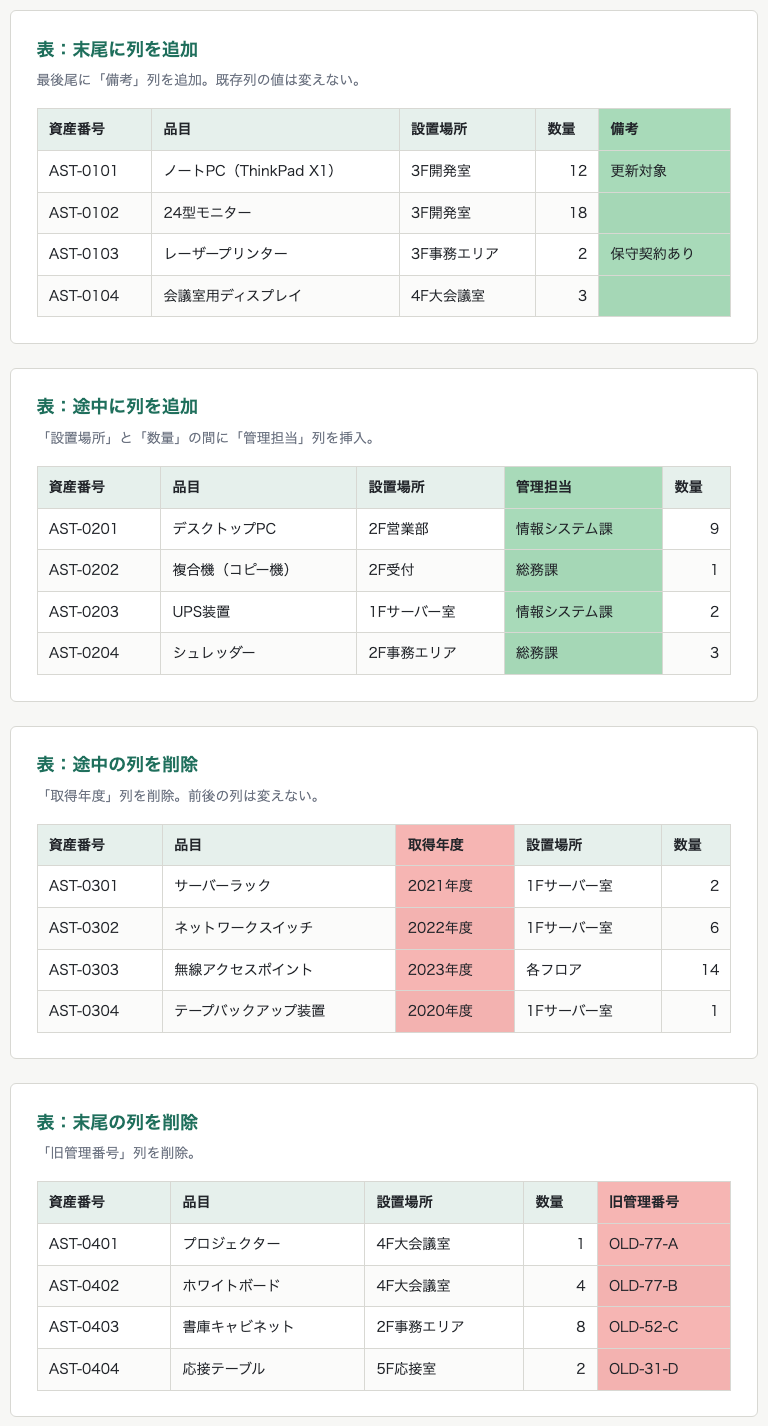
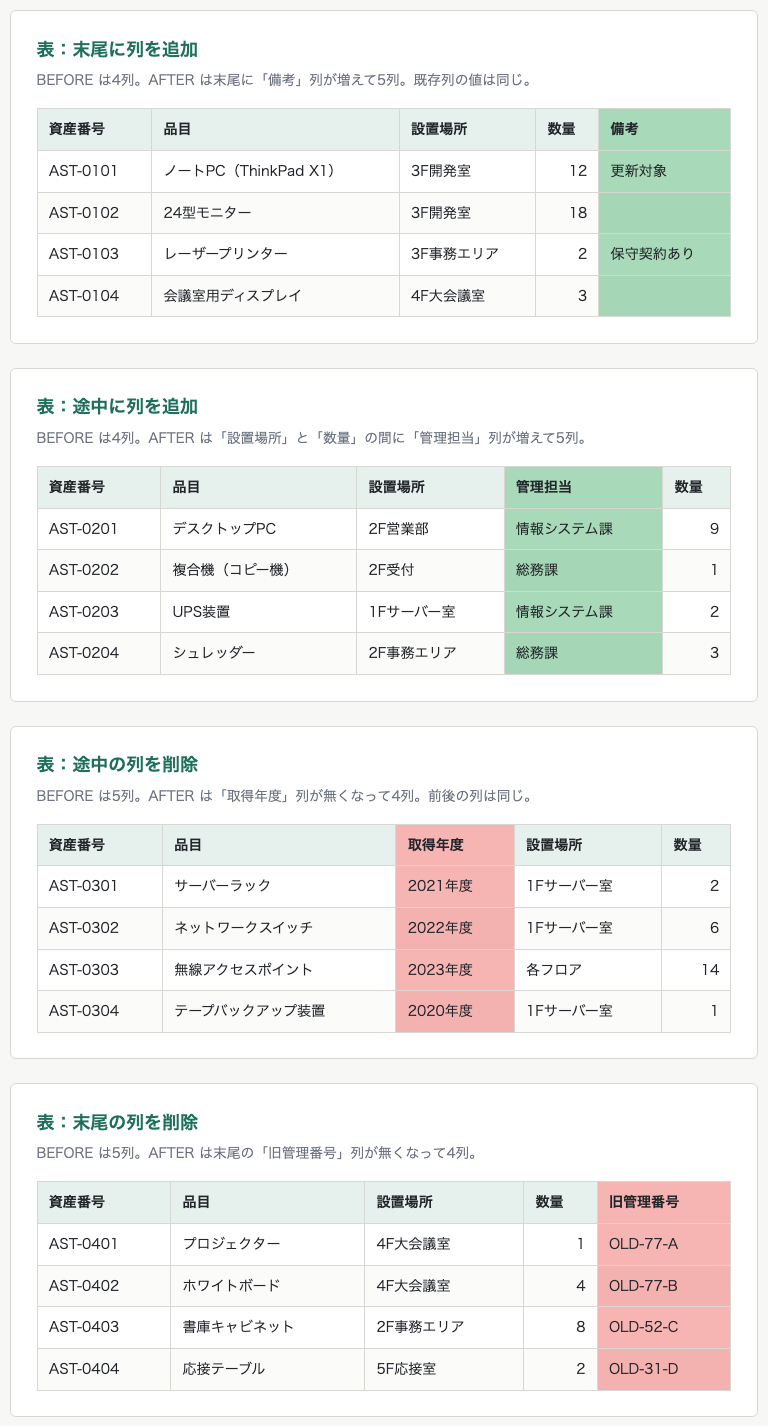
edit: state each case in terms of file contents, not an action
Section leads said things like "最後尾に「備考」列を追加". That reads as a
claim about what the render will show, so when the two files are loaded
into the wrong panes the wording and the colours contradict each other and
the wording looks like the bug.

They now say what each file contains - "BEFORE は4列。AFTER は末尾に「備考」
列が増えて5列。" - which stays true whichever pane holds which file, and
tells you which pane holds which the moment the colours disagree with it.

diff --git a/diff-testcases/all-cases-before.html b/diff-testcases/all-cases-before.html
@@ -97,7 +97,7 @@ footer{padding:1.2rem 2.5rem;color:var(--muted);font-size:.82rem}
       </section>
       <section id="sec-col-add-tail">
         <h2>表：末尾に列を追加</h2>
-        <p class="lead">最後尾に「備考」列を追加。既存列の値は変えない。</p>
+        <p class="lead">BEFORE は4列。AFTER は末尾に「備考」列が増えて5列。既存列の値は同じ。</p>
         <table id="t-col-add-tail">
         <thead><tr><th>資産番号</th><th>品目</th><th>設置場所</th><th>数量</th></tr></thead>
         <tbody>
@@ -110,7 +110,7 @@ footer{padding:1.2rem 2.5rem;color:var(--muted);font-size:.82rem}
       </section>
       <section id="sec-col-add-mid">
         <h2>表：途中に列を追加</h2>
-        <p class="lead">「設置場所」と「数量」の間に「管理担当」列を挿入。</p>
+        <p class="lead">BEFORE は4列。AFTER は「設置場所」と「数量」の間に「管理担当」列が増えて5列。</p>
         <table id="t-col-add-mid">
         <thead><tr><th>資産番号</th><th>品目</th><th>設置場所</th><th>数量</th></tr></thead>
         <tbody>
@@ -123,7 +123,7 @@ footer{padding:1.2rem 2.5rem;color:var(--muted);font-size:.82rem}
       </section>
       <section id="sec-col-del-mid">
         <h2>表：途中の列を削除</h2>
-        <p class="lead">「取得年度」列を削除。前後の列は変えない。</p>
+        <p class="lead">BEFORE は5列。AFTER は「取得年度」列が無くなって4列。前後の列は同じ。</p>
         <table id="t-col-del-mid">
         <thead><tr><th>資産番号</th><th>品目</th><th>取得年度</th><th>設置場所</th><th>数量</th></tr></thead>
         <tbody>
@@ -136,7 +136,7 @@ footer{padding:1.2rem 2.5rem;color:var(--muted);font-size:.82rem}
       </section>
       <section id="sec-col-del-tail">
         <h2>表：末尾の列を削除</h2>
-        <p class="lead">「旧管理番号」列を削除。</p>
+        <p class="lead">BEFORE は5列。AFTER は末尾の「旧管理番号」列が無くなって4列。</p>
         <table id="t-col-del-tail">
         <thead><tr><th>資産番号</th><th>品目</th><th>設置場所</th><th>数量</th><th>旧管理番号</th></tr></thead>
         <tbody>
@@ -149,7 +149,7 @@ footer{padding:1.2rem 2.5rem;color:var(--muted);font-size:.82rem}
       </section>
       <section id="sec-row-churn">
         <h2>表：行の増減と値の変更</h2>
-        <p class="lead">行を1本削除、1本追加し、金額を複数箇所変更。</p>
+        <p class="lead">BEFORE にだけ Classic 行、AFTER にだけ Pro Plus 行。金額も6箇所違う。</p>
         <table id="t-row-churn">
         <thead><tr><th>プラン</th><th>月額</th><th>年額</th><th>上限ユーザー</th><th>サポート</th></tr></thead>
         <tbody>
@@ -162,7 +162,7 @@ footer{padding:1.2rem 2.5rem;color:var(--muted);font-size:.82rem}
       </section>
       <section id="sec-lookalike">
         <h2>表：似た行が並ぶ中での1行削除</h2>
-        <p class="lead">同じ形の行が5本並ぶ中から1本を削除し、別の行のセルを1つ変更。</p>
+        <p class="lead">BEFORE は8行、AFTER は sato.k のログイン行が無くて7行。tanaka.r の設定変更行の結果も違う。</p>
         <table id="t-lookalike">
         <thead><tr><th>ログID</th><th>時刻</th><th>利用者</th><th>操作</th><th>対象</th><th>結果</th></tr></thead>
         <tbody>
@@ -179,7 +179,7 @@ footer{padding:1.2rem 2.5rem;color:var(--muted);font-size:.82rem}
       </section>
       <section id="sec-cards">
         <h2>カード：追加・削除・並べ替え</h2>
-        <p class="lead">同じclassのカードを1枚削除、1枚追加、2枚入れ替え、1枚の本文を微修正。</p>
+        <p class="lead">BEFORE にだけ「通知基盤の移行」、AFTER にだけ「データ基盤のPoC」。「決済APIの連携」は位置も本文も違う。</p>
         <div class="grid">
         <div class="card">
           <div class="head"><h4>認証基盤の刷新</h4><span class="badge ok">順調</span></div>
@@ -205,7 +205,7 @@ footer{padding:1.2rem 2.5rem;color:var(--muted);font-size:.82rem}
       </section>
       <section id="sec-card-attr">
         <h2>カード：classだけの変更</h2>
-        <p class="lead">テキストは完全に同一で、classだけが card から card done に変わる。</p>
+        <p class="lead">テキストは完全に同一。class が BEFORE は card、AFTER は card done。</p>
         <div class="grid">
         <div class="card">
           <div class="head"><h4>棚卸データの移行</h4><span class="badge ok">順調</span></div>
@@ -216,7 +216,7 @@ footer{padding:1.2rem 2.5rem;color:var(--muted);font-size:.82rem}
       </section>
       <section id="sec-list-nest">
         <h2>入れ子リストの組み替え</h2>
-        <p class="lead">階層の昇格・降格、ul→ol、並べ替え、項目の削除。</p>
+        <p class="lead">BEFORE と AFTER で階層・並び順・ul/ol が違う。BEFORE にだけ「社内レビュー」。</p>
         <ul class="tree">
           <li>要件定義
             <ul>
@@ -255,7 +255,7 @@ footer{padding:1.2rem 2.5rem;color:var(--muted);font-size:.82rem}
       </section>
       <section id="sec-steps">
         <h2>手順の並べ替えと本文書き換え</h2>
-        <p class="lead">2番目のステップを4番目へ移動し、1ステップの説明を書き換える。</p>
+        <p class="lead">「障害対応チームの招集」が BEFORE では2番目、AFTER では4番目。「暫定対処の実施」の説明文も違う。</p>
         <ol class="steps">
           <li>
             <h3>監視アラートの確認</h3>
@@ -285,7 +285,7 @@ footer{padding:1.2rem 2.5rem;color:var(--muted);font-size:.82rem}
       </section>
       <section id="sec-glossary">
         <h2>用語集：用語の増減と定義の書き換え</h2>
-        <p class="lead">dt/dd を1組追加、1組削除し、既存の定義を1つ書き換える。</p>
+        <p class="lead">AFTER にだけ SLO、BEFORE にだけ オンコール。エスカレーションの定義文も違う。</p>
         <dl class="glossary">
           <dt>SLA（サービスレベル合意）</dt>
           <dd>提供者と利用者の間で合意した、可用性や応答時間の水準を定めた契約上の指標。</dd>
@@ -303,7 +303,7 @@ footer{padding:1.2rem 2.5rem;color:var(--muted);font-size:.82rem}
       </section>
       <section id="sec-prose">
         <h2>長文：ごく小さな修正のみ</h2>
-        <p class="lead">6段落のうち3箇所だけを修正。過剰にマークしないことの確認。</p>
+        <p class="lead">6段落のうち BEFORE と AFTER で違うのは3箇所だけ。過剰にマークしないことの確認。</p>
         <p>本プロジェクトは、社内で個別に管理されていた資産情報を単一の台帳へ統合することを目的として、2026年2月に開始した。対象は本社ビルおよび2拠点の什器・OA機器であり、部門ごとに異なっていた管理粒度をそろえる作業から着手した。</p>
         <p>体制は情報システム課3名と総務課2名の計5名で、週次の進捗確認を継続してきた。外部ベンダーへの委託は行わず、既存の社内ツールの組み合わせで完結させる方針とした。</p>
         <p>うまくいった点として、初期段階で棚卸の粒度を合意できたことが大きい。粒度が定まっていたため、拠点ごとの入力作業が並行して進められ、想定より2週間早く一次データがそろった。</p>
@@ -313,14 +313,14 @@ footer{padding:1.2rem 2.5rem;color:var(--muted);font-size:.82rem}
       </section>
       <section id="sec-inline">
         <h2>インライン記法・属性のみの変更</h2>
-        <p class="lead">可視テキストは完全に同一。strong追加、em除去、href変更、class追加のみ。</p>
+        <p class="lead">可視テキストは BEFORE と AFTER で完全に同一。strong / em / href / class だけが違う。</p>
         <p>棚卸台帳の締め日を <em>毎月末日</em> から毎月25日へ変更しました。
         対象は本社および全拠点です。詳細は <a href="/docs/2026-07/asset-notes">運用メモ</a> を参照してください。</p>
         <p>変更後は <span>締め日の翌営業日</span> に自動集計が走ります。集計結果に差異があった場合は情報システム課へ連絡してください。</p>
       </section>
       <section id="sec-code">
         <h2>コードブロックの編集</h2>
-        <p class="lead">1行変更、1行追加、1行削除。インデントが崩れないことの確認。</p>
+        <p class="lead">1行が違い、AFTER にだけある行と BEFORE にだけある行が1本ずつ。インデントが崩れないことの確認。</p>
         <p>集計ジョブの起動スクリプトは <code>asset-batch</code> です。</p>
         <pre><code>#!/usr/bin/env bash
 set -euo pipefail
@@ -338,7 +338,7 @@ echo "done"</code></pre>
       </section>
       <section id="sec-quote">
         <h2>引用文の部分修正</h2>
-        <p class="lead">blockquote 内の数値と語尾を変更。</p>
+        <p class="lead">blockquote の数値と語尾が BEFORE と AFTER で違う。</p>
         <blockquote>
           「私たちは、障害の発生を完全にゼロにすることを目指すのではなく、障害を30分以内に検知し、
           顧客影響を最小化することを最優先とする。」
@@ -347,7 +347,7 @@ echo "done"</code></pre>
       </section>
       <section id="sec-hlevel">
         <h2>見出しレベルの昇格</h2>
-        <p class="lead">テキストは同一で h3 が h2 になる。</p>
+        <p class="lead">テキストは同一。「データの流れ」が BEFORE は h3、AFTER は h2。</p>
         <h3>データの流れ</h3>
         <p>各拠点の入力フォームから収集した棚卸データは、夜間バッチで台帳データベースへ取り込まれる。</p>
         <h3>構成要素</h3>
@@ -355,7 +355,7 @@ echo "done"</code></pre>
       </section>
       <section id="sec-swap">
         <h2>小見出しの入れ替え</h2>
-        <p class="lead">2つの小見出しブロックの前後を入れ替える。</p>
+        <p class="lead">2つの小見出しブロックの前後が BEFORE と AFTER で逆。</p>
         <h3>想定されるリスク</h3>
         <p>拠点ごとの入力遅延により、月次の集計が締め日に間に合わない可能性がある。締め日の3営業日前にリマインドを自動送信して対応する。</p>
         <h3>今後の予定</h3>

diff --git a/diff-testcases/all-cases-after.html b/diff-testcases/all-cases-after.html
@@ -97,7 +97,7 @@ footer{padding:1.2rem 2.5rem;color:var(--muted);font-size:.82rem}
       </section>
       <section id="sec-col-add-tail">
         <h2>表：末尾に列を追加</h2>
-        <p class="lead">最後尾に「備考」列を追加。既存列の値は変えない。</p>
+        <p class="lead">BEFORE は4列。AFTER は末尾に「備考」列が増えて5列。既存列の値は同じ。</p>
         <table id="t-col-add-tail">
         <thead><tr><th>資産番号</th><th>品目</th><th>設置場所</th><th>数量</th><th>備考</th></tr></thead>
         <tbody>
@@ -110,7 +110,7 @@ footer{padding:1.2rem 2.5rem;color:var(--muted);font-size:.82rem}
       </section>
       <section id="sec-col-add-mid">
         <h2>表：途中に列を追加</h2>
-        <p class="lead">「設置場所」と「数量」の間に「管理担当」列を挿入。</p>
+        <p class="lead">BEFORE は4列。AFTER は「設置場所」と「数量」の間に「管理担当」列が増えて5列。</p>
         <table id="t-col-add-mid">
         <thead><tr><th>資産番号</th><th>品目</th><th>設置場所</th><th>管理担当</th><th>数量</th></tr></thead>
         <tbody>
@@ -123,7 +123,7 @@ footer{padding:1.2rem 2.5rem;color:var(--muted);font-size:.82rem}
       </section>
       <section id="sec-col-del-mid">
         <h2>表：途中の列を削除</h2>
-        <p class="lead">「取得年度」列を削除。前後の列は変えない。</p>
+        <p class="lead">BEFORE は5列。AFTER は「取得年度」列が無くなって4列。前後の列は同じ。</p>
         <table id="t-col-del-mid">
         <thead><tr><th>資産番号</th><th>品目</th><th>設置場所</th><th>数量</th></tr></thead>
         <tbody>
@@ -136,7 +136,7 @@ footer{padding:1.2rem 2.5rem;color:var(--muted);font-size:.82rem}
       </section>
       <section id="sec-col-del-tail">
         <h2>表：末尾の列を削除</h2>
-        <p class="lead">「旧管理番号」列を削除。</p>
+        <p class="lead">BEFORE は5列。AFTER は末尾の「旧管理番号」列が無くなって4列。</p>
         <table id="t-col-del-tail">
         <thead><tr><th>資産番号</th><th>品目</th><th>設置場所</th><th>数量</th></tr></thead>
         <tbody>
@@ -149,7 +149,7 @@ footer{padding:1.2rem 2.5rem;color:var(--muted);font-size:.82rem}
       </section>
       <section id="sec-row-churn">
         <h2>表：行の増減と値の変更</h2>
-        <p class="lead">行を1本削除、1本追加し、金額を複数箇所変更。</p>
+        <p class="lead">BEFORE にだけ Classic 行、AFTER にだけ Pro Plus 行。金額も6箇所違う。</p>
         <table id="t-row-churn">
         <thead><tr><th>プラン</th><th>月額</th><th>年額</th><th>上限ユーザー</th><th>サポート</th></tr></thead>
         <tbody>
@@ -162,7 +162,7 @@ footer{padding:1.2rem 2.5rem;color:var(--muted);font-size:.82rem}
       </section>
       <section id="sec-lookalike">
         <h2>表：似た行が並ぶ中での1行削除</h2>
-        <p class="lead">同じ形の行が5本並ぶ中から1本を削除し、別の行のセルを1つ変更。</p>
+        <p class="lead">BEFORE は8行、AFTER は sato.k のログイン行が無くて7行。tanaka.r の設定変更行の結果も違う。</p>
         <table id="t-lookalike">
         <thead><tr><th>ログID</th><th>時刻</th><th>利用者</th><th>操作</th><th>対象</th><th>結果</th></tr></thead>
         <tbody>
@@ -178,7 +178,7 @@ footer{padding:1.2rem 2.5rem;color:var(--muted);font-size:.82rem}
       </section>
       <section id="sec-cards">
         <h2>カード：追加・削除・並べ替え</h2>
-        <p class="lead">同じclassのカードを1枚削除、1枚追加、2枚入れ替え、1枚の本文を微修正。</p>
+        <p class="lead">BEFORE にだけ「通知基盤の移行」、AFTER にだけ「データ基盤のPoC」。「決済APIの連携」は位置も本文も違う。</p>
         <div class="grid">
         <div class="card">
           <div class="head"><h4>認証基盤の刷新</h4><span class="badge ok">順調</span></div>
@@ -204,7 +204,7 @@ footer{padding:1.2rem 2.5rem;color:var(--muted);font-size:.82rem}
       </section>
       <section id="sec-card-attr">
         <h2>カード：classだけの変更</h2>
-        <p class="lead">テキストは完全に同一で、classだけが card から card done に変わる。</p>
+        <p class="lead">テキストは完全に同一。class が BEFORE は card、AFTER は card done。</p>
         <div class="grid">
         <div class="card done">
           <div class="head"><h4>棚卸データの移行</h4><span class="badge ok">順調</span></div>
@@ -215,7 +215,7 @@ footer{padding:1.2rem 2.5rem;color:var(--muted);font-size:.82rem}
       </section>
       <section id="sec-list-nest">
         <h2>入れ子リストの組み替え</h2>
-        <p class="lead">階層の昇格・降格、ul→ol、並べ替え、項目の削除。</p>
+        <p class="lead">BEFORE と AFTER で階層・並び順・ul/ol が違う。BEFORE にだけ「社内レビュー」。</p>
         <ul class="tree">
           <li>要件定義
             <ul>
@@ -253,7 +253,7 @@ footer{padding:1.2rem 2.5rem;color:var(--muted);font-size:.82rem}
       </section>
       <section id="sec-steps">
         <h2>手順の並べ替えと本文書き換え</h2>
-        <p class="lead">2番目のステップを4番目へ移動し、1ステップの説明を書き換える。</p>
+        <p class="lead">「障害対応チームの招集」が BEFORE では2番目、AFTER では4番目。「暫定対処の実施」の説明文も違う。</p>
         <ol class="steps">
           <li>
             <h3>監視アラートの確認</h3>
@@ -283,7 +283,7 @@ footer{padding:1.2rem 2.5rem;color:var(--muted);font-size:.82rem}
       </section>
       <section id="sec-glossary">
         <h2>用語集：用語の増減と定義の書き換え</h2>
-        <p class="lead">dt/dd を1組追加、1組削除し、既存の定義を1つ書き換える。</p>
+        <p class="lead">AFTER にだけ SLO、BEFORE にだけ オンコール。エスカレーションの定義文も違う。</p>
         <dl class="glossary">
           <dt>SLA（サービスレベル合意）</dt>
           <dd>提供者と利用者の間で合意した、可用性や応答時間の水準を定めた契約上の指標。</dd>
@@ -301,7 +301,7 @@ footer{padding:1.2rem 2.5rem;color:var(--muted);font-size:.82rem}
       </section>
       <section id="sec-prose">
         <h2>長文：ごく小さな修正のみ</h2>
-        <p class="lead">6段落のうち3箇所だけを修正。過剰にマークしないことの確認。</p>
+        <p class="lead">6段落のうち BEFORE と AFTER で違うのは3箇所だけ。過剰にマークしないことの確認。</p>
         <p>本プロジェクトは、社内で個別に管理されていた資産情報を単一の台帳へ統合することを目的として、2026年2月に開始した。対象は本社ビルおよび2拠点の什器・OA機器であり、部門ごとに異なっていた管理粒度をそろえる作業から着手した。</p>
         <p>体制は情報システム課3名と総務課2名の計5名で、週次の進捗確認を継続してきた。外部ベンダーへの委託は行わず、既存の社内ツールの組み合わせで完結させる方針とした。</p>
         <p>うまくいった点として、初期段階で棚卸の粒度を合意できたことが大きい。粒度が定まっていたため、拠点ごとの入力作業が並行して進められ、想定より2週間早く一次データがそろった。</p>
@@ -311,14 +311,14 @@ footer{padding:1.2rem 2.5rem;color:var(--muted);font-size:.82rem}
       </section>
       <section id="sec-inline">
         <h2>インライン記法・属性のみの変更</h2>
-        <p class="lead">可視テキストは完全に同一。strong追加、em除去、href変更、class追加のみ。</p>
+        <p class="lead">可視テキストは BEFORE と AFTER で完全に同一。strong / em / href / class だけが違う。</p>
         <p>棚卸台帳の締め日を 毎月末日 から<strong>毎月25日</strong>へ変更しました。
         対象は本社および全拠点です。詳細は <a href="/docs/2026-08/asset-notes">運用メモ</a> を参照してください。</p>
         <p>変更後は <span class="highlight">締め日の翌営業日</span> に自動集計が走ります。集計結果に差異があった場合は情報システム課へ連絡してください。</p>
       </section>
       <section id="sec-code">
         <h2>コードブロックの編集</h2>
-        <p class="lead">1行変更、1行追加、1行削除。インデントが崩れないことの確認。</p>
+        <p class="lead">1行が違い、AFTER にだけある行と BEFORE にだけある行が1本ずつ。インデントが崩れないことの確認。</p>
         <p>集計ジョブの起動スクリプトは <code>asset-batch</code> です。</p>
         <pre><code>#!/usr/bin/env bash
 set -euo pipefail
@@ -336,7 +336,7 @@ echo "done"</code></pre>
       </section>
       <section id="sec-quote">
         <h2>引用文の部分修正</h2>
-        <p class="lead">blockquote 内の数値と語尾を変更。</p>
+        <p class="lead">blockquote の数値と語尾が BEFORE と AFTER で違う。</p>
         <blockquote>
           「私たちは、障害の発生を完全にゼロにすることを目指すのではなく、障害を15分以内に検知し、
           顧客影響を最小化したうえで迅速に復旧することを最優先とする。」
@@ -345,7 +345,7 @@ echo "done"</code></pre>
       </section>
       <section id="sec-hlevel">
         <h2>見出しレベルの昇格</h2>
-        <p class="lead">テキストは同一で h3 が h2 になる。</p>
+        <p class="lead">テキストは同一。「データの流れ」が BEFORE は h3、AFTER は h2。</p>
         <h2>データの流れ</h2>
         <p>各拠点の入力フォームから収集した棚卸データは、夜間バッチで台帳データベースへ取り込まれる。</p>
         <h3>構成要素</h3>
@@ -353,7 +353,7 @@ echo "done"</code></pre>
       </section>
       <section id="sec-swap">
         <h2>小見出しの入れ替え</h2>
-        <p class="lead">2つの小見出しブロックの前後を入れ替える。</p>
+        <p class="lead">2つの小見出しブロックの前後が BEFORE と AFTER で逆。</p>
         <h3>今後の予定</h3>
         <p>9月に本番切り替え、10月に旧台帳の参照停止、11月に減価償却管理との連携検討を予定している。</p>
         <h3>想定されるリスク</h3>

diff --git a/diff-testcases/generate.py b/diff-testcases/generate.py
@@ -489,23 +489,23 @@ def sec_direction():
 
 CASES = [
     ('sec-direction', 'diff の向き確認', 'BEFORE が赤、AFTER が緑になっていれば左右の入れ方が正しい。', sec_direction),
-    ('sec-col-add-tail', '表：末尾に列を追加', '最後尾に「備考」列を追加。既存列の値は変えない。', sec_col_add_tail),
-    ('sec-col-add-mid', '表：途中に列を追加', '「設置場所」と「数量」の間に「管理担当」列を挿入。', sec_col_add_mid),
-    ('sec-col-del-mid', '表：途中の列を削除', '「取得年度」列を削除。前後の列は変えない。', sec_col_del_mid),
-    ('sec-col-del-tail', '表：末尾の列を削除', '「旧管理番号」列を削除。', sec_col_del_tail),
-    ('sec-row-churn', '表：行の増減と値の変更', '行を1本削除、1本追加し、金額を複数箇所変更。', sec_row_churn),
-    ('sec-lookalike', '表：似た行が並ぶ中での1行削除', '同じ形の行が5本並ぶ中から1本を削除し、別の行のセルを1つ変更。', sec_lookalike),
-    ('sec-cards', 'カード：追加・削除・並べ替え', '同じclassのカードを1枚削除、1枚追加、2枚入れ替え、1枚の本文を微修正。', sec_cards),
-    ('sec-card-attr', 'カード：classだけの変更', 'テキストは完全に同一で、classだけが card から card done に変わる。', sec_card_attr),
-    ('sec-list-nest', '入れ子リストの組み替え', '階層の昇格・降格、ul→ol、並べ替え、項目の削除。', sec_list_nest),
-    ('sec-steps', '手順の並べ替えと本文書き換え', '2番目のステップを4番目へ移動し、1ステップの説明を書き換える。', sec_steps),
-    ('sec-glossary', '用語集：用語の増減と定義の書き換え', 'dt/dd を1組追加、1組削除し、既存の定義を1つ書き換える。', sec_glossary),
-    ('sec-prose', '長文：ごく小さな修正のみ', '6段落のうち3箇所だけを修正。過剰にマークしないことの確認。', sec_prose),
-    ('sec-inline', 'インライン記法・属性のみの変更', '可視テキストは完全に同一。strong追加、em除去、href変更、class追加のみ。', sec_inline),
-    ('sec-code', 'コードブロックの編集', '1行変更、1行追加、1行削除。インデントが崩れないことの確認。', sec_code),
-    ('sec-quote', '引用文の部分修正', 'blockquote 内の数値と語尾を変更。', sec_quote),
-    ('sec-hlevel', '見出しレベルの昇格', 'テキストは同一で h3 が h2 になる。', sec_hlevel),
-    ('sec-swap', '小見出しの入れ替え', '2つの小見出しブロックの前後を入れ替える。', sec_swap),
+    ('sec-col-add-tail', '表：末尾に列を追加', 'BEFORE は4列。AFTER は末尾に「備考」列が増えて5列。既存列の値は同じ。', sec_col_add_tail),
+    ('sec-col-add-mid', '表：途中に列を追加', 'BEFORE は4列。AFTER は「設置場所」と「数量」の間に「管理担当」列が増えて5列。', sec_col_add_mid),
+    ('sec-col-del-mid', '表：途中の列を削除', 'BEFORE は5列。AFTER は「取得年度」列が無くなって4列。前後の列は同じ。', sec_col_del_mid),
+    ('sec-col-del-tail', '表：末尾の列を削除', 'BEFORE は5列。AFTER は末尾の「旧管理番号」列が無くなって4列。', sec_col_del_tail),
+    ('sec-row-churn', '表：行の増減と値の変更', 'BEFORE にだけ Classic 行、AFTER にだけ Pro Plus 行。金額も6箇所違う。', sec_row_churn),
+    ('sec-lookalike', '表：似た行が並ぶ中での1行削除', 'BEFORE は8行、AFTER は sato.k のログイン行が無くて7行。tanaka.r の設定変更行の結果も違う。', sec_lookalike),
+    ('sec-cards', 'カード：追加・削除・並べ替え', 'BEFORE にだけ「通知基盤の移行」、AFTER にだけ「データ基盤のPoC」。「決済APIの連携」は位置も本文も違う。', sec_cards),
+    ('sec-card-attr', 'カード：classだけの変更', 'テキストは完全に同一。class が BEFORE は card、AFTER は card done。', sec_card_attr),
+    ('sec-list-nest', '入れ子リストの組み替え', 'BEFORE と AFTER で階層・並び順・ul/ol が違う。BEFORE にだけ「社内レビュー」。', sec_list_nest),
+    ('sec-steps', '手順の並べ替えと本文書き換え', '「障害対応チームの招集」が BEFORE では2番目、AFTER では4番目。「暫定対処の実施」の説明文も違う。', sec_steps),
+    ('sec-glossary', '用語集：用語の増減と定義の書き換え', 'AFTER にだけ SLO、BEFORE にだけ オンコール。エスカレーションの定義文も違う。', sec_glossary),
+    ('sec-prose', '長文：ごく小さな修正のみ', '6段落のうち BEFORE と AFTER で違うのは3箇所だけ。過剰にマークしないことの確認。', sec_prose),
+    ('sec-inline', 'インライン記法・属性のみの変更', '可視テキストは BEFORE と AFTER で完全に同一。strong / em / href / class だけが違う。', sec_inline),
+    ('sec-code', 'コードブロックの編集', '1行が違い、AFTER にだけある行と BEFORE にだけある行が1本ずつ。インデントが崩れないことの確認。', sec_code),
+    ('sec-quote', '引用文の部分修正', 'blockquote の数値と語尾が BEFORE と AFTER で違う。', sec_quote),
+    ('sec-hlevel', '見出しレベルの昇格', 'テキストは同一。「データの流れ」が BEFORE は h3、AFTER は h2。', sec_hlevel),
+    ('sec-swap', '小見出しの入れ替え', '2つの小見出しブロックの前後が BEFORE と AFTER で逆。', sec_swap),
 ]
 
 NAV_BEFORE = [

diff --git a/diff-testcases/README.md b/diff-testcases/README.md
@@ -37,6 +37,11 @@ python3 diff-testcases/generate.py
 | `sec-swap` | 小見出しブロックの前後入れ替え | Shown as delete+insert of the moved block. |
 | `sec-legacy-permission` / `sec-integration` | 節そのものの増減（目次項目とセット） | The removed section stays as a whole `del` block, the new one as a whole `ins` block, and the nav gains/loses exactly one item each. |
 
+Each section's lead line states **what each file contains** ("BEFORE は4列。AFTER は末尾に「備考」列が
+増えて5列。") rather than an action ("末尾に列を追加"). An action reads as a claim about the render, so
+when the two files are loaded into the wrong panes the text and the colours appear to contradict each
+other; a statement about file content stays true either way and shows which pane holds which file.
+
 The table of contents (`nav.toc`) additionally covers link churn: one item removed, one added, one
 renamed. Every `nav li` must keep the **same computed `display`** — one item alone rendering `inline`
 was a real reported bug — and every surviving item's `href="#..."` must still resolve.
